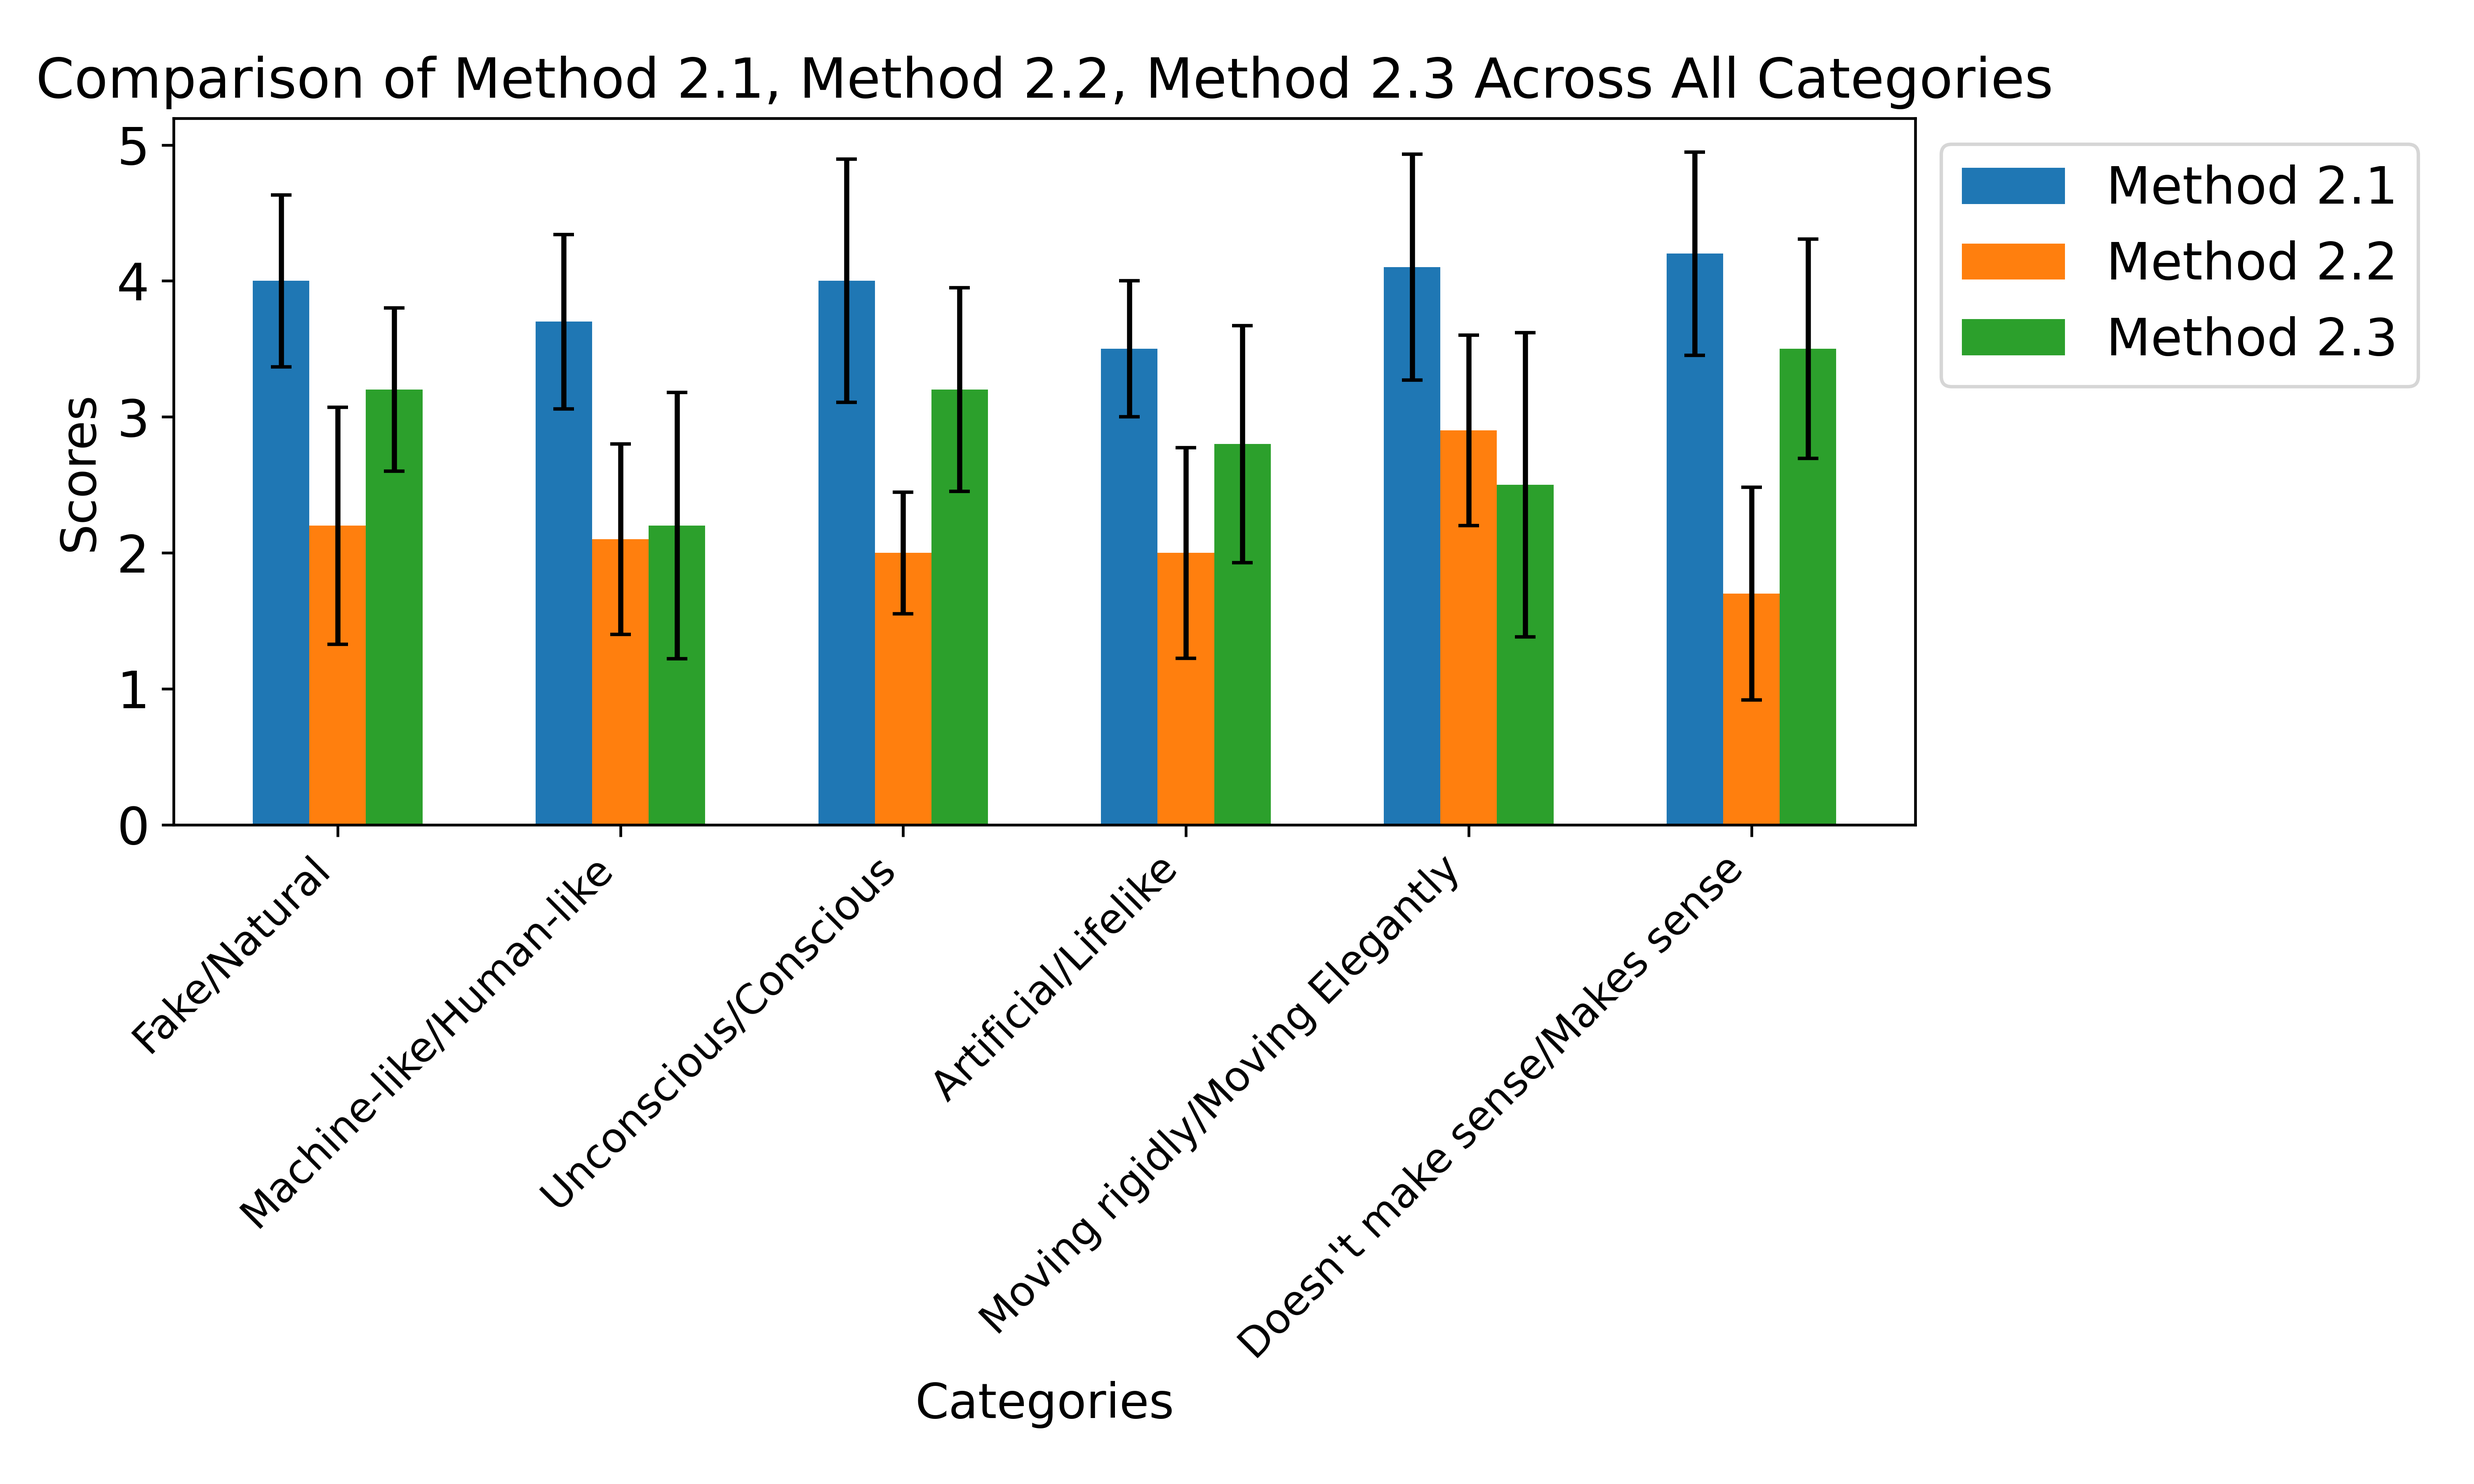
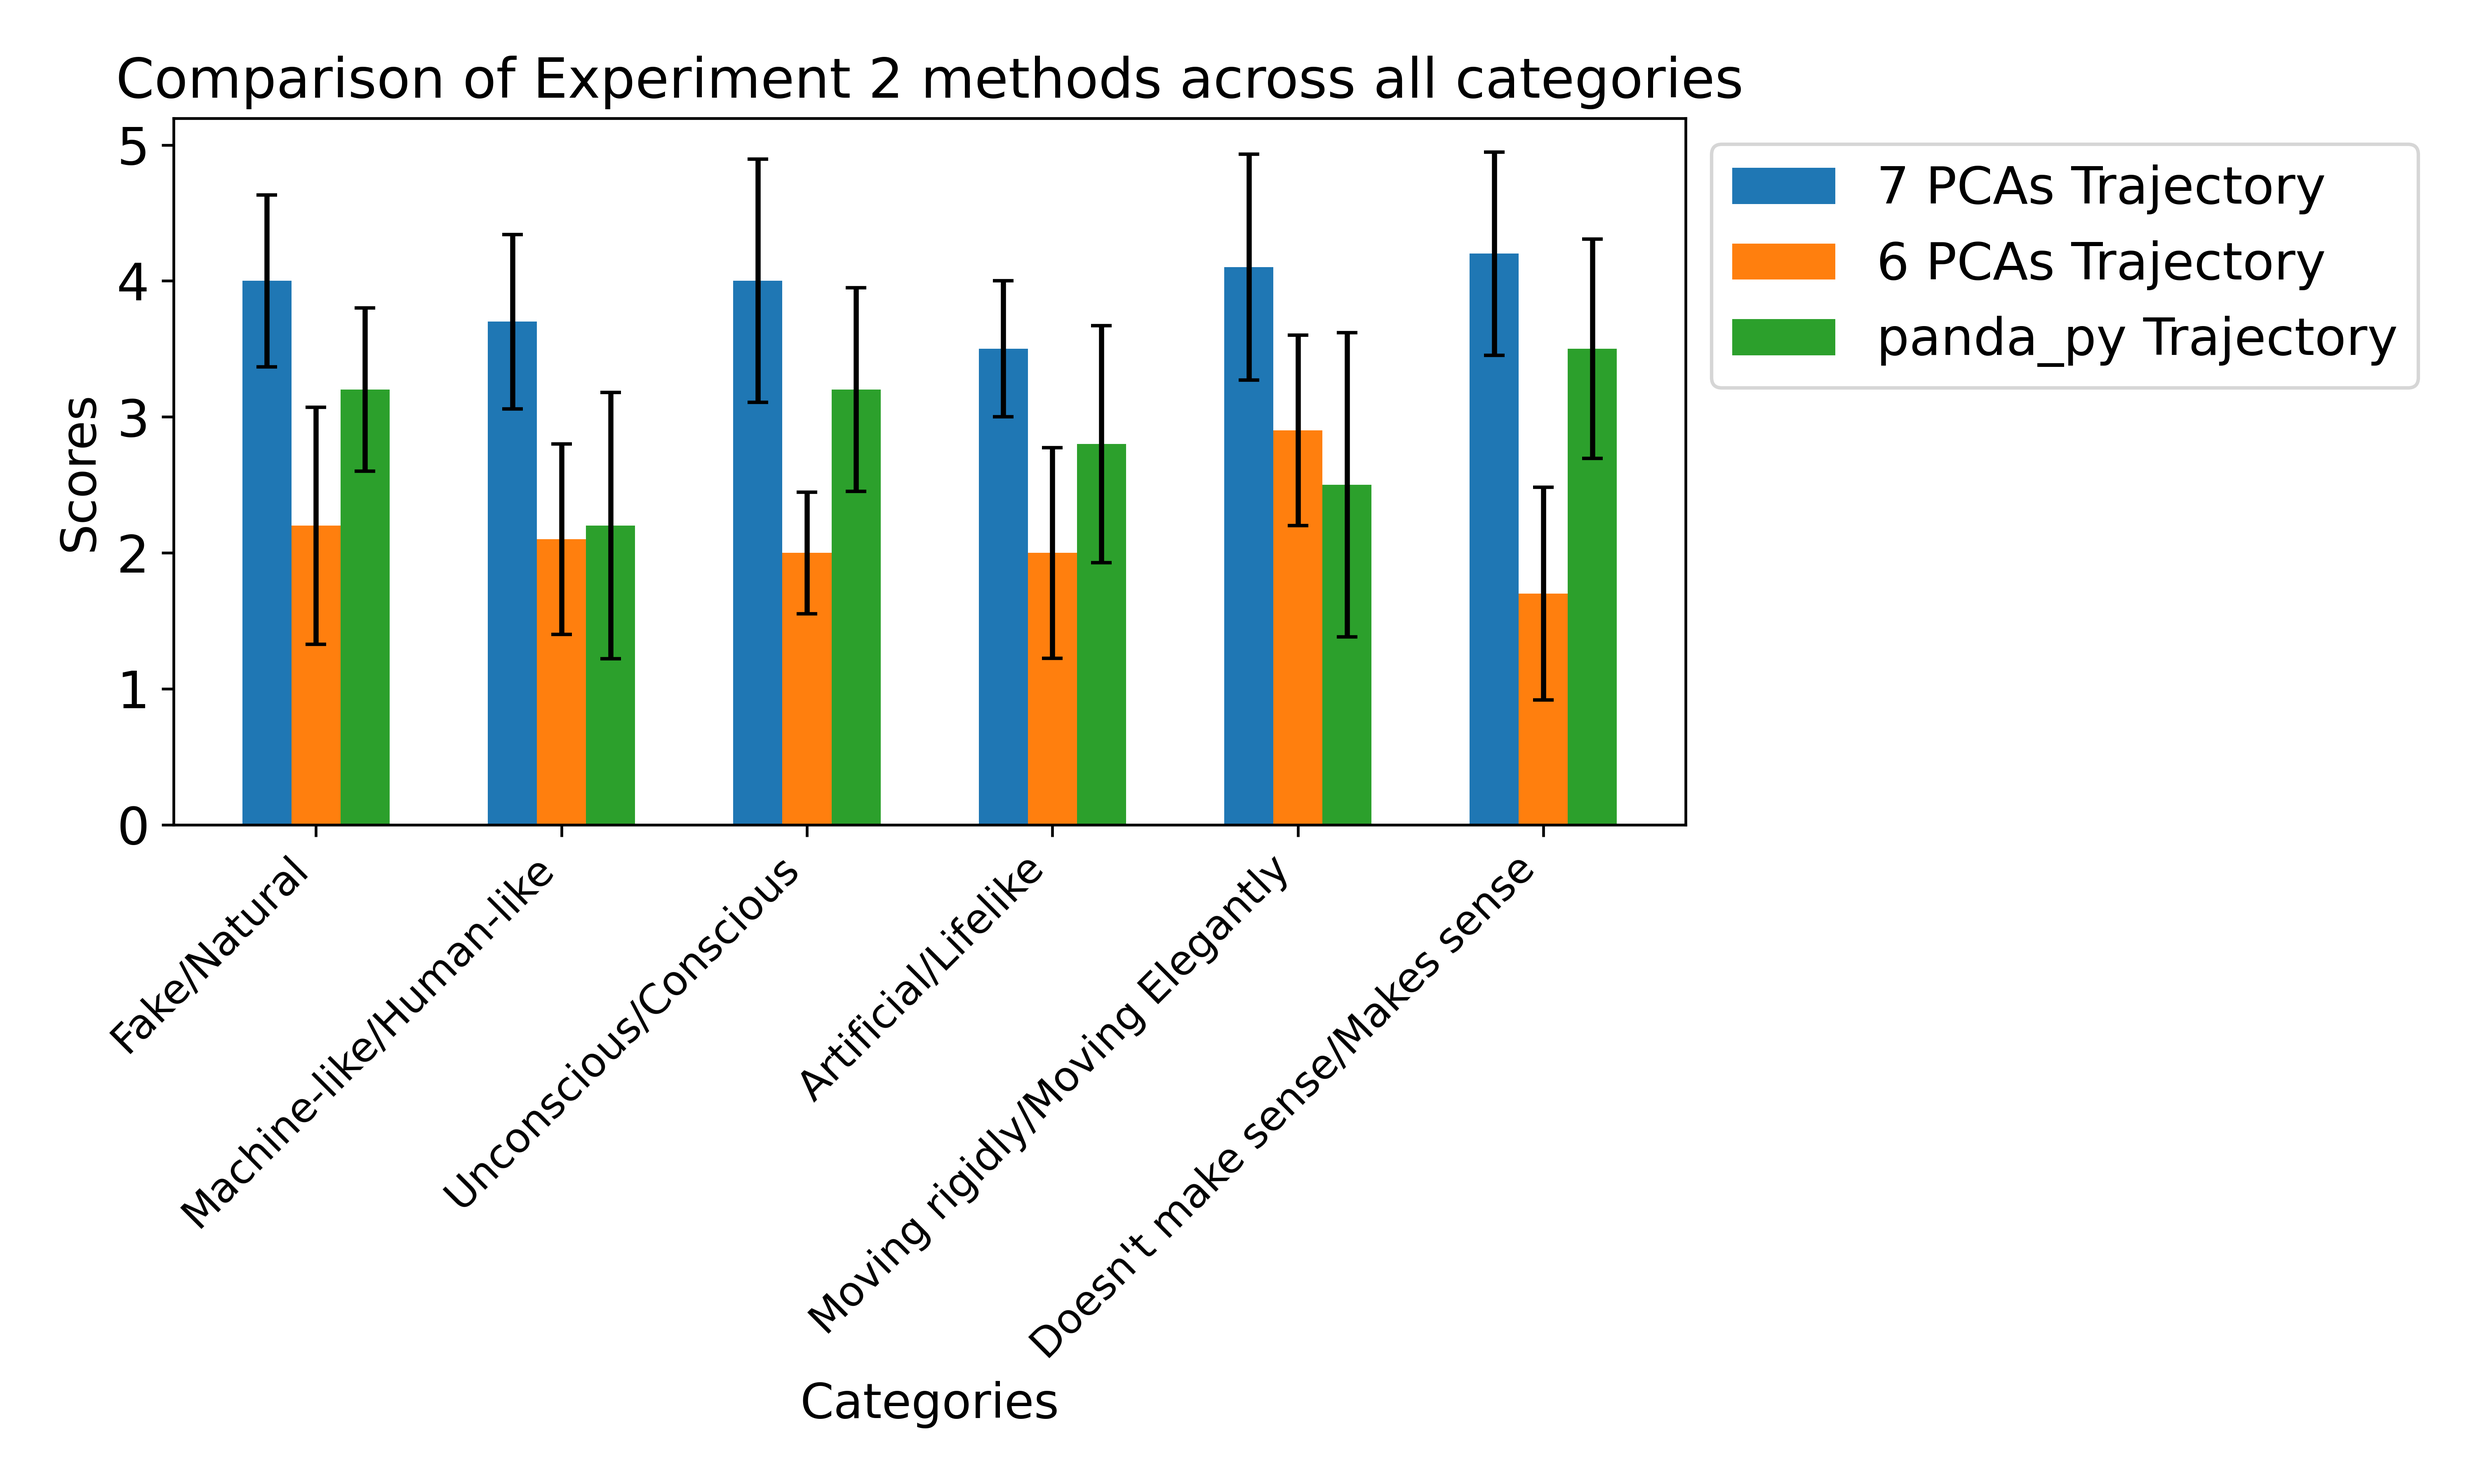
plots and tables from results

diff --git a/questionnaire/generate_plots.py b/questionnaire/generate_plots.py
@@ -1,6 +1,24 @@
 import numpy as np
 import pandas as pd
 import matplotlib.pyplot as plt
+import os
+
+# Helper function to generate markdown tables
+def create_markdown_table(categories, methods, data, errors, experiment):
+    table_lines = []
+    table_lines.append(f"### Table for {experiment}")
+    table_lines.append("| **Category**            | " + " | ".join([f"**{method}**" for method in methods]) + " |")
+    table_lines.append("|--------------------------| " + " | ".join(["-----------------------------"] * len(methods)) + " |")
+
+    for cat_idx, category in enumerate(categories):
+        row = [category] + [
+            f"{data[method_idx, cat_idx]:.2f} &pm; {errors[method_idx, cat_idx]:.2f}"
+            for method_idx in range(len(methods))
+        ]
+        table_lines.append("| " + " | ".join(row) + " |")
+    
+    return "\n".join(table_lines)
+
 
 csv = pd.read_csv("questionnaire/Human-Likeness of robotic arm with postrual synergies (Responses) - Form responses 1.csv")
 
@@ -8,7 +26,7 @@ csv = pd.read_csv("questionnaire/Human-Likeness of robotic arm with postrual syn
 categories = ["Fake/Natural", "Machine-like/Human-like", "Unconscious/Conscious", "Artificial/Lifelike", "Moving rigidly/Moving Elegantly",
               "Doesn't make sense/Makes sense"]
 
-methods = ["Method 1.1", "Method 1.2", "Method 1.3", "Method 2.1", "Method 2.2", "Method 2.3", "Method 3.1", "Method 3.2", "Method 3.3"]
+methods = ["7 PCAs Trajectory", "6 PCAs Trajectory", "panda_py Trajectory", "7 PCAs Trajectory", "6 PCAs Trajectory", "panda_py Trajectory", "7 PCAs Trajectory", "6 PCAs Trajectory", "panda_py Trajectory"]
 csv = csv.drop(columns=["Timestamp", "Participant number"])
 columns = [col for col in csv.columns]
 means = [np.mean(csv[i].values) for i in columns]
@@ -26,12 +44,29 @@ bar_width = 0.2
 
 plt.rcParams.update({'font.size': 15})
 
+# Create a directory to save the markdown tables
+output_dir = "questionnaire/tables"
+os.makedirs(output_dir, exist_ok=True)
+
+markdown_files = []
+
 # Plotting each set of methods across all categories in separate figures
 for i, (method_idx1, method_idx2, method_idx3) in enumerate(method_groups):
     
     # Extract the relevant data and errors for the current methods
     selected_data = data[[method_idx1, method_idx2, method_idx3], :]
     selected_errors = errors[[method_idx1, method_idx2, method_idx3], :]
+    selected_methods = [methods[method_idx1], methods[method_idx2], methods[method_idx3]]
+
+    # Create markdown content for the table
+    markdown_content = create_markdown_table(categories, selected_methods, selected_data, selected_errors, f"Experiment {i+1}")
+    
+    # Save to a markdown file
+    file_path = os.path.join(output_dir, f"experiment_{i + 1}_table.md")
+    with open(file_path, "w") as file:
+        file.write(markdown_content)
+    
+    markdown_files.append(file_path)
     
     # Define the indices for the categories
     index = np.arange(len(categories))
@@ -48,7 +83,7 @@ for i, (method_idx1, method_idx2, method_idx3) in enumerate(method_groups):
     # Set labels and title with enhanced font sizes
     ax.set_xlabel('Categories', fontsize=14)
     ax.set_ylabel('Scores', fontsize=14)
-    ax.set_title(f'Comparison of {", ".join(selected_methods)} Across All Categories', fontsize=16)
+    ax.set_title(f'Comparison of Experiment {i+1} methods across all categories', fontsize=16)
     ax.set_xticks(index + bar_width)
     ax.set_xticklabels(categories, rotation=45, ha="right", fontsize=12)
     ax.legend(loc='upper left', bbox_to_anchor=(1, 1))
@@ -75,7 +110,18 @@ grouped_errors = np.array([
     np.sqrt(np.sum(errors[[1, 4, 7], :] ** 2, axis=0)),  # Errors for 1.2, 2.2, 3.2
     np.sqrt(np.sum(errors[[2, 5, 8], :] ** 2, axis=0)),  # Errors for 1.3, 2.3, 3.3
 ])
-methods_all = ["Method 1", "Method 2", "Method 3"]
+methods_all = ["7 PCAs Trajectory", "6 PCAs Trajectory", "panda_py Trajectory"]
+
+# Create markdown content for the table
+markdown_content = create_markdown_table(categories, methods_all, grouped_data, grouped_errors, "Averages of Experiments")
+    
+# Save to a markdown file
+file_path = os.path.join(output_dir, f"avg_experiment_table.md")
+with open(file_path, "w") as file:
+    file.write(markdown_content)
+    
+markdown_files.append(file_path)
+
 fig, ax = plt.subplots(figsize=(10, 6), dpi= 600)
 for k, method_data in enumerate(grouped_data):
         ax.bar(index + k * bar_width, method_data, bar_width, yerr=grouped_errors[k], 
@@ -83,7 +129,7 @@ for k, method_data in enumerate(grouped_data):
 
 ax.set_xlabel('Categories', fontsize=14)
 ax.set_ylabel('Scores', fontsize=14)
-ax.set_title(f'Scores for Average Across All Categories', fontsize=16)
+ax.set_title(f'Scores for average across all categories', fontsize=16)
 ax.set_xticks(index)
 ax.set_xticklabels(categories, rotation=45, ha="right", fontsize=12)
 ax.legend(loc='upper left', bbox_to_anchor=(1, 1))
@@ -91,3 +137,24 @@ ax.legend(loc='upper left', bbox_to_anchor=(1, 1))
 plt.tight_layout()
 plt.savefig(f"questionnaire/averaged_comparison.png")
 plt.show()
+
+
+
+# # Generate tables for each experiment
+# markdown_files = []
+# for i, (method_idx1, method_idx2, method_idx3) in enumerate(method_groups):
+#     selected_methods = [methods[method_idx1], methods[method_idx2], methods[method_idx3]]
+#     selected_data = data[[method_idx1, method_idx2, method_idx3], :]
+#     selected_errors = errors[[method_idx1, method_idx2, method_idx3], :]
+    
+#     # Create markdown content for the table
+#     markdown_content = create_markdown_table(categories, selected_methods, selected_data, selected_errors, i)
+    
+#     # Save to a markdown file
+#     file_path = os.path.join(output_dir, f"experiment_{i + 1}_table.md")
+#     with open(file_path, "w") as file:
+#         file.write(markdown_content)
+    
+#     markdown_files.append(file_path)
+
+# markdown_files

diff --git a/questionnaire/tables/avg_experiment_table.md b/questionnaire/tables/avg_experiment_table.md
@@ -1,0 +1,9 @@
+### Table for Averages of Experiments
+| **Category**            | **7 PCAs Trajectory** | **6 PCAs Trajectory** | **panda_py Trajectory** |
+|--------------------------| ----------------------------- | ----------------------------- | ----------------------------- |
+| Fake/Natural | 10.70 &pm; 1.10 | 7.60 &pm; 1.63 | 8.70 &pm; 1.45 |
+| Machine-like/Human-like | 9.30 &pm; 1.23 | 7.50 &pm; 1.49 | 6.40 &pm; 1.63 |
+| Unconscious/Conscious | 11.20 &pm; 1.30 | 6.20 &pm; 1.47 | 9.10 &pm; 1.57 |
+| Artificial/Lifelike | 8.90 &pm; 1.07 | 7.40 &pm; 1.56 | 7.40 &pm; 1.41 |
+| Moving rigidly/Moving Elegantly | 11.70 &pm; 1.35 | 9.50 &pm; 1.59 | 8.20 &pm; 1.50 |
+| Doesn't make sense/Makes sense | 11.70 &pm; 1.32 | 6.70 &pm; 2.03 | 9.90 &pm; 1.92 |

diff --git a/questionnaire/tables/experiment_1_table.md b/questionnaire/tables/experiment_1_table.md
@@ -1,0 +1,9 @@
+### Table for Experiment 1
+| **Category**            | **7 PCAs Trajectory** | **6 PCAs Trajectory** | **panda_py Trajectory** |
+|--------------------------| ----------------------------- | ----------------------------- | ----------------------------- |
+| Fake/Natural | 3.20 &pm; 0.75 | 2.30 &pm; 1.00 | 3.10 &pm; 0.83 |
+| Machine-like/Human-like | 2.70 &pm; 0.90 | 2.50 &pm; 1.02 | 2.30 &pm; 1.19 |
+| Unconscious/Conscious | 3.60 &pm; 0.66 | 2.00 &pm; 1.00 | 3.40 &pm; 1.11 |
+| Artificial/Lifelike | 2.30 &pm; 0.78 | 2.70 &pm; 0.90 | 2.30 &pm; 0.78 |
+| Moving rigidly/Moving Elegantly | 3.80 &pm; 0.75 | 3.00 &pm; 1.18 | 3.20 &pm; 0.60 |
+| Doesn't make sense/Makes sense | 3.80 &pm; 0.75 | 2.20 &pm; 1.47 | 3.70 &pm; 1.00 |

diff --git a/questionnaire/tables/experiment_2_table.md b/questionnaire/tables/experiment_2_table.md
@@ -1,0 +1,9 @@
+### Table for Experiment 2
+| **Category**            | **7 PCAs Trajectory** | **6 PCAs Trajectory** | **panda_py Trajectory** |
+|--------------------------| ----------------------------- | ----------------------------- | ----------------------------- |
+| Fake/Natural | 4.00 &pm; 0.63 | 2.20 &pm; 0.87 | 3.20 &pm; 0.60 |
+| Machine-like/Human-like | 3.70 &pm; 0.64 | 2.10 &pm; 0.70 | 2.20 &pm; 0.98 |
+| Unconscious/Conscious | 4.00 &pm; 0.89 | 2.00 &pm; 0.45 | 3.20 &pm; 0.75 |
+| Artificial/Lifelike | 3.50 &pm; 0.50 | 2.00 &pm; 0.77 | 2.80 &pm; 0.87 |
+| Moving rigidly/Moving Elegantly | 4.10 &pm; 0.83 | 2.90 &pm; 0.70 | 2.50 &pm; 1.12 |
+| Doesn't make sense/Makes sense | 4.20 &pm; 0.75 | 1.70 &pm; 0.78 | 3.50 &pm; 0.81 |

diff --git a/questionnaire/tables/experiment_3_table.md b/questionnaire/tables/experiment_3_table.md
@@ -1,0 +1,9 @@
+### Table for Experiment 3
+| **Category**            | **7 PCAs Trajectory** | **6 PCAs Trajectory** | **panda_py Trajectory** |
+|--------------------------| ----------------------------- | ----------------------------- | ----------------------------- |
+| Fake/Natural | 3.50 &pm; 0.50 | 3.10 &pm; 0.94 | 2.40 &pm; 1.02 |
+| Machine-like/Human-like | 2.90 &pm; 0.54 | 2.90 &pm; 0.83 | 1.90 &pm; 0.54 |
+| Unconscious/Conscious | 3.60 &pm; 0.66 | 2.20 &pm; 0.98 | 2.50 &pm; 0.81 |
+| Artificial/Lifelike | 3.10 &pm; 0.54 | 2.70 &pm; 1.00 | 2.30 &pm; 0.78 |
+| Moving rigidly/Moving Elegantly | 3.80 &pm; 0.75 | 3.60 &pm; 0.80 | 2.50 &pm; 0.81 |
+| Doesn't make sense/Makes sense | 3.70 &pm; 0.78 | 2.80 &pm; 1.17 | 2.70 &pm; 1.42 |
